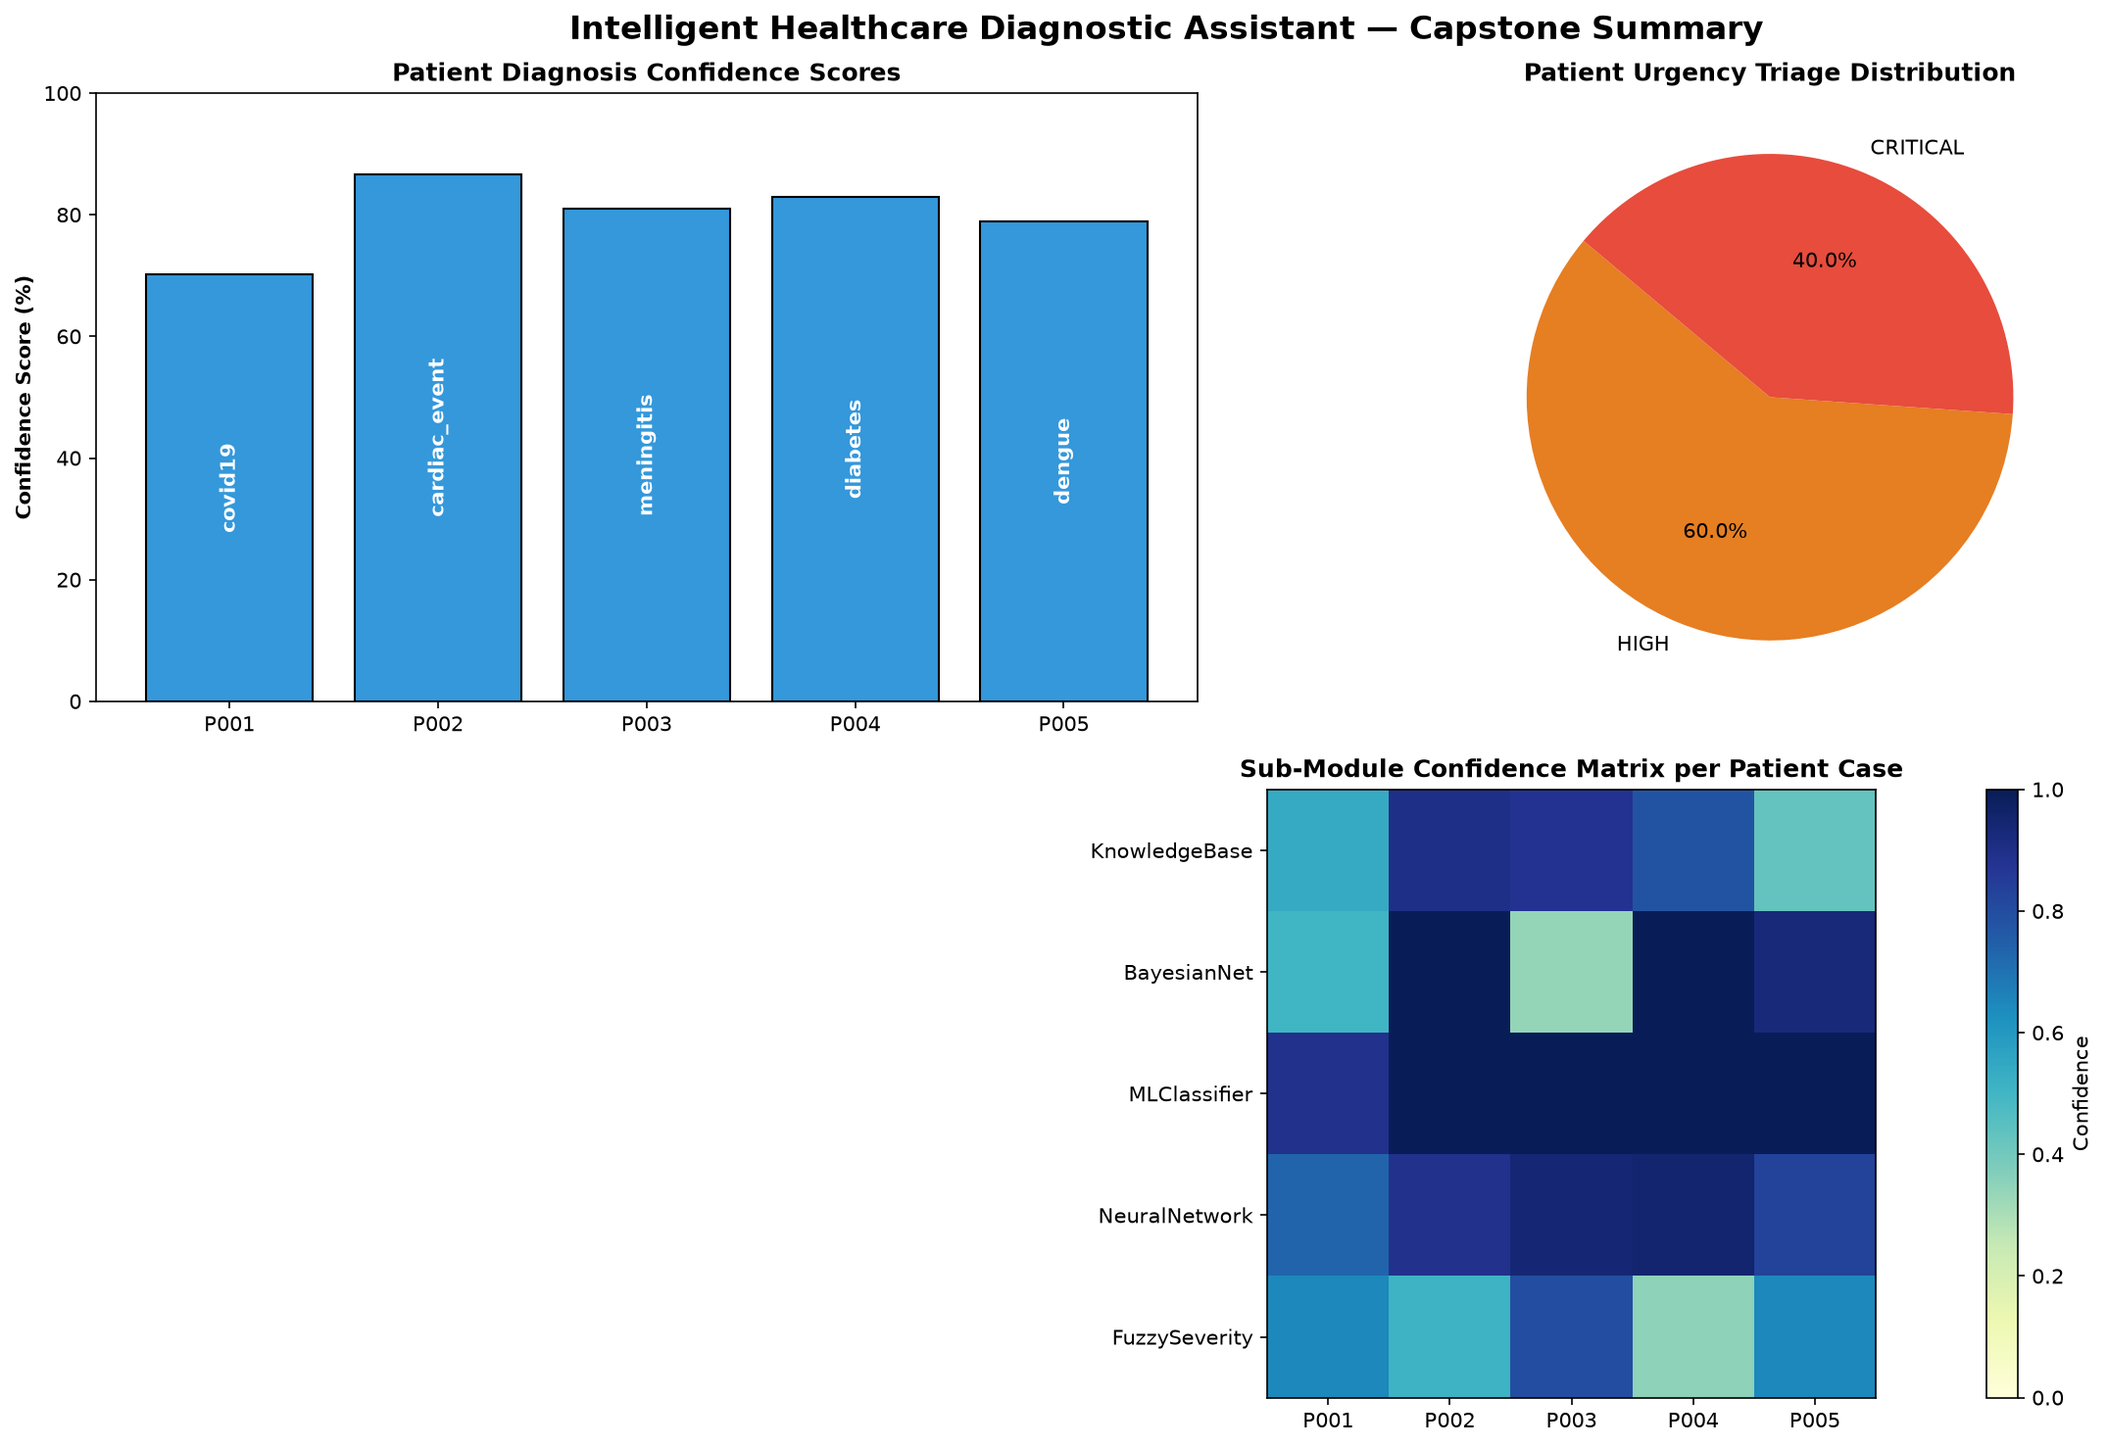
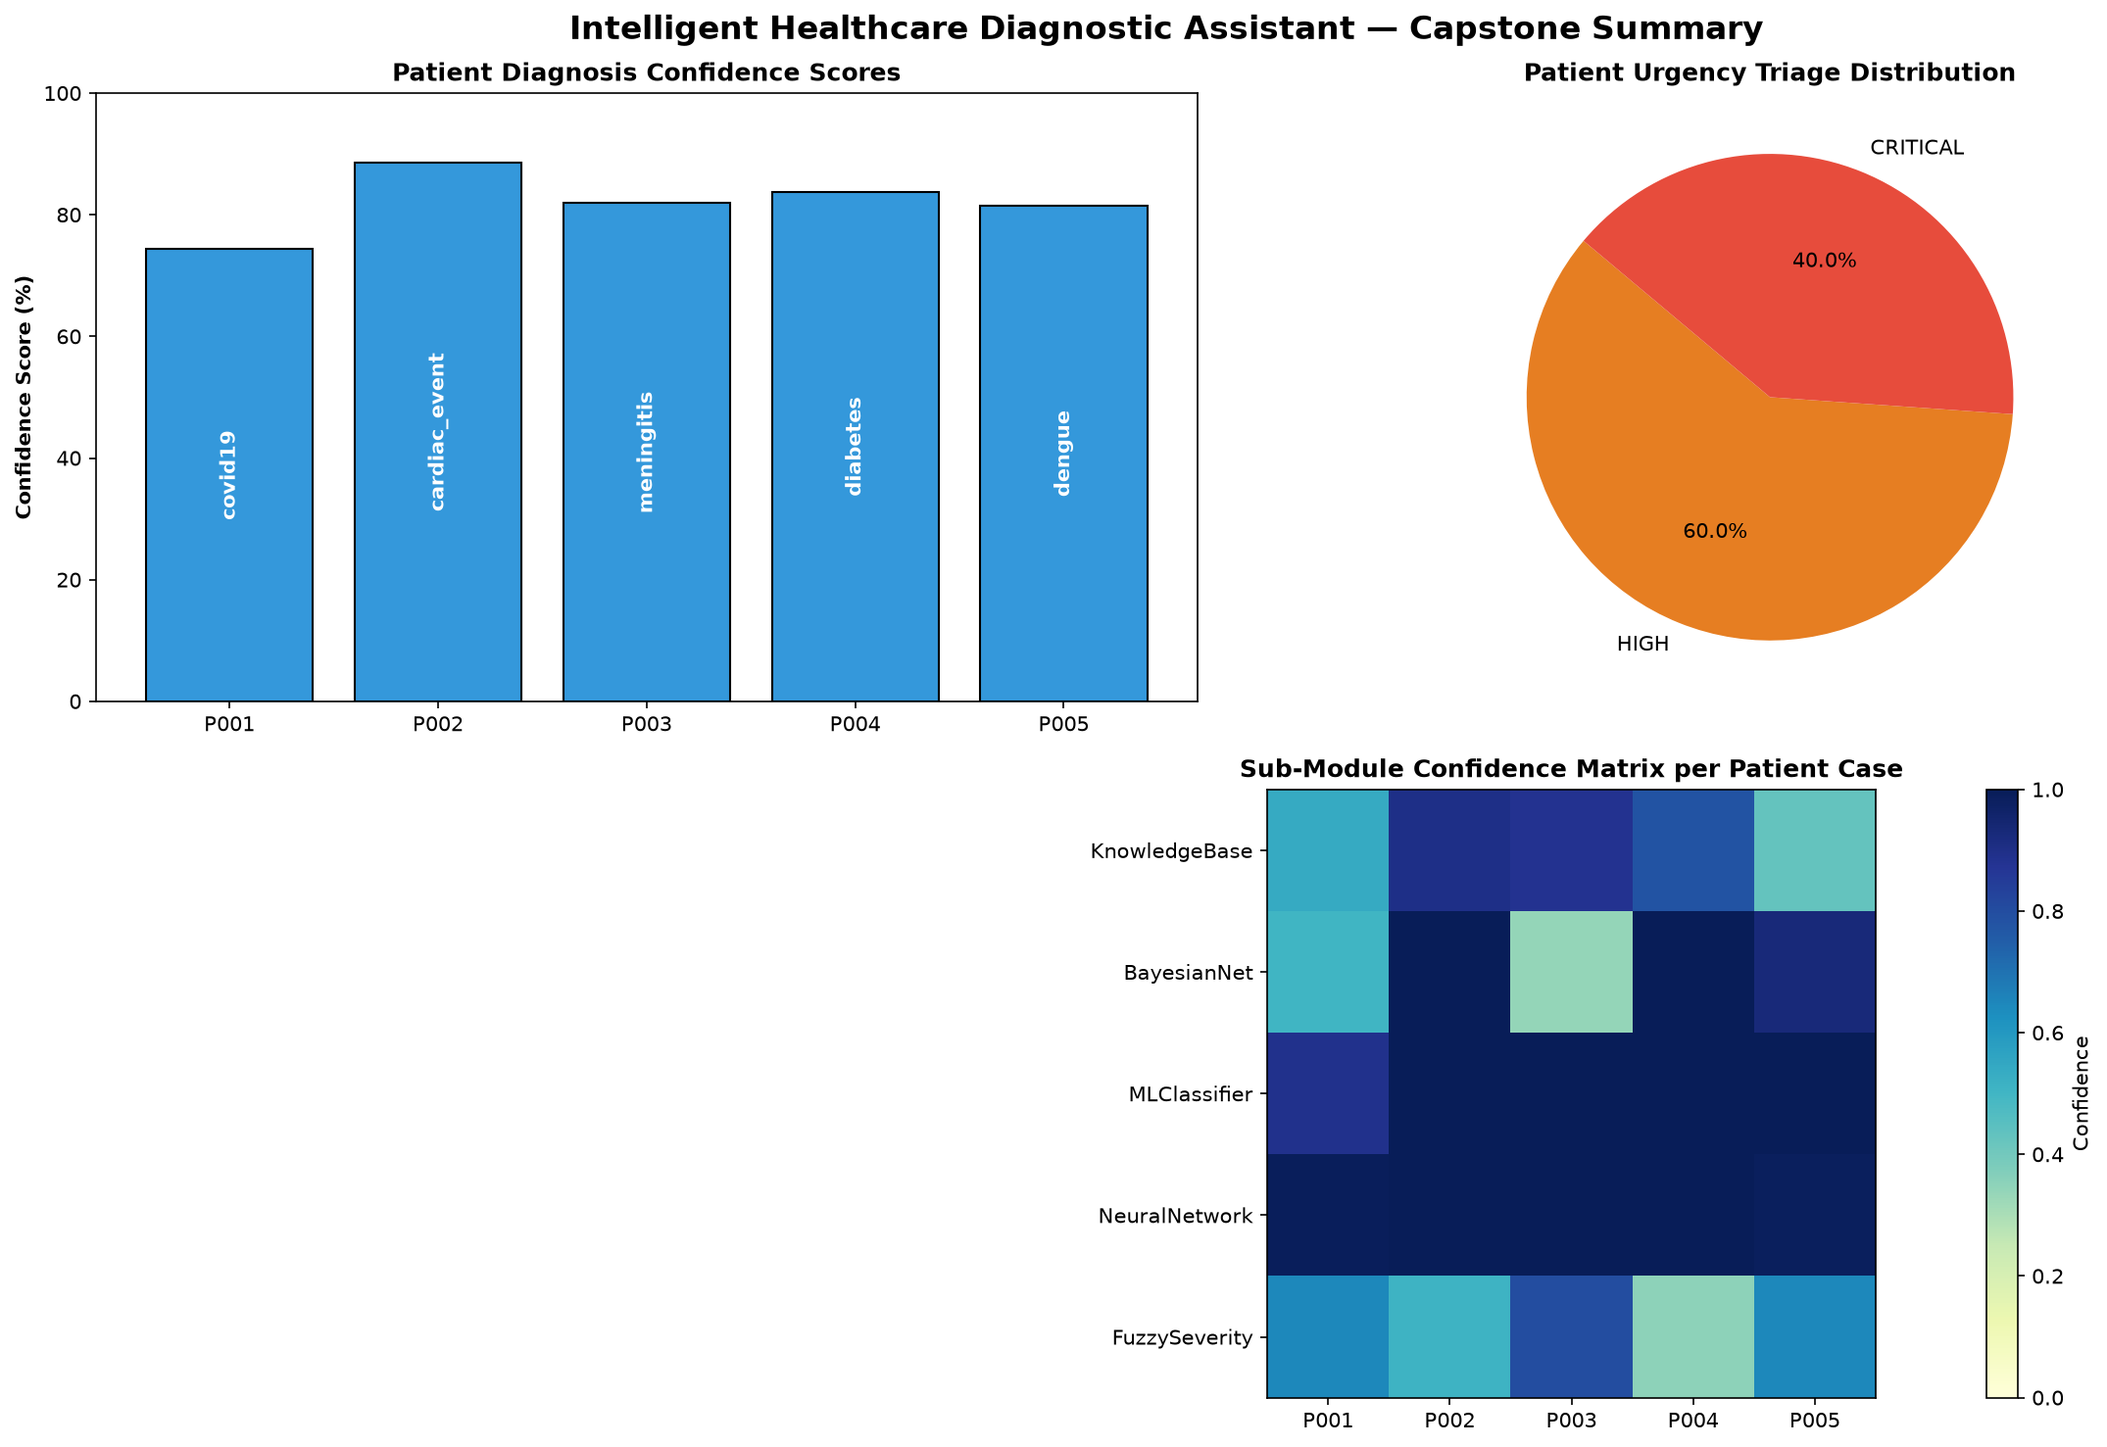
Your commit message

diff --git a/app.py b/app.py
@@ -4,15 +4,26 @@
 # Introduction to AI — 13-Week Capstone  
 # ============================================================  
 
+import os
 import sys  
 import json  
 import warnings  
+import argparse
+import subprocess
 import numpy as np  
 import matplotlib.pyplot as plt  
 import matplotlib.gridspec as gridspec  
 warnings.filterwarnings('ignore')  
+os.environ['TF_CPP_MIN_LOG_LEVEL'] = '2'
 
-# Import all modules  
+# Import Streamlit if available for Interactive Web UI
+try:
+    import streamlit as st
+    HAS_STREAMLIT = True
+except ImportError:
+    HAS_STREAMLIT = False
+
+# Import all sub-modules  
 from modules.agent           import HealthcareDiagnosticAgent, PatientPercept  
 from modules.knowledge_base  import MedicalKnowledgeBase  
 from modules.bayesian_net    import SimpleBayesianDiagnostics  
@@ -45,11 +56,7 @@ def section(title: str):
 
 def build_system() -> HealthcareDiagnosticAgent:  
     """Instantiate and wire all AI modules"""  
-    section("🔧 Building AI System — Registering Modules")  
-
     agent = HealthcareDiagnosticAgent()  
-
-    print("\n  Initializing modules...")  
     
     # 1. Logic Knowledge Base
     kb = MedicalKnowledgeBase()
@@ -59,14 +66,14 @@ def build_system() -> HealthcareDiagnosticAgent:
     bn = SimpleBayesianDiagnostics()
     agent.register_module('BayesianNet', bn)
 
-    # 3. ML Classifier (Train before attaching)
+    # 3. ML Classifier
     ml = MLDiagnosticClassifier()
     ml.train(verbose=False)
     agent.register_module('MLClassifier', ml)
 
-    # 4. Neural Network (Train before attaching)
+    # 4. Neural Network
     nn = NeuralDiagnosticModel()
-    nn.train(epochs=25, verbose=0)
+    nn.train(epochs=20, verbose=0)
     agent.register_module('NeuralNetwork', nn)
 
     # 5. Fuzzy Logic Controller
@@ -77,11 +84,10 @@ def build_system() -> HealthcareDiagnosticAgent:
     planner = TreatmentPlanner()
     agent.register_module('Planner', planner)
 
-    print(f"\n{C.GREEN}✅ System Assembly Complete! All sub-modules active.{C.END}")
     return agent
 
 def get_sample_patients():
-    """Returns test cases covering various diseases and clinical severities"""
+    """Returns standard test cases covering various diseases and clinical severities"""
     return [
         PatientPercept(
             patient_id="P001",
@@ -145,18 +151,22 @@ def display_report(patient: PatientPercept, report: dict, planner: TreatmentPlan
         if isinstance(res, dict) and 'summary' in res:
             print(f"    • {mod_name:<16}: {res['summary']}")
 
-    # Generate and display treatment plan
-    tx_plan = planner.create_treatment_plan(report['diagnosis'], report['urgency'])
-    print(f"\n  {C.BOLD}Generated Treatment Plan ({tx_plan.get('steps', 0)} steps):{C.END}")
-    for step in tx_plan.get('plan', []):
-        print(f"    Step {step['step']}: {step['action']:<25} [{step['duration']}]")
+            # ✅ NEW NORMALIZED LINE
+        diag_key = report['diagnosis'].lower().strip()
+
+        # Map common disease variations to standard keys expected by planner
+        if "covid" in diag_key:
+            diag_key = "covid-19"
+        elif "flu" in diag_key or "influenza" in diag_key:
+            diag_key = "flu"
+
+        tx_plan = planner.create_treatment_plan(diag_key, report['urgency'])
 
 def plot_capstone_dashboard(all_reports: list):
     """Plots combined evaluation metrics and exports final dashboard image"""
     fig = plt.figure(figsize=(16, 10))
     gs = gridspec.GridSpec(2, 2, figure=fig)
 
-    # 1. Diagnoses Summary
     ax1 = fig.add_subplot(gs[0, 0])
     patients = [r['patient_id'] for r in all_reports]
     confidences = [r['confidence'] * 100 for r in all_reports]
@@ -171,7 +181,6 @@ def plot_capstone_dashboard(all_reports: list):
         yval = bar.get_height()
         ax1.text(bar.get_x() + bar.get_width()/2.0, yval / 2, diag, ha='center', va='center', color='white', fontweight='bold', rotation=90)
 
-    # 2. Urgency Distribution
     ax2 = fig.add_subplot(gs[0, 1])
     urgencies = [r['urgency'] for r in all_reports]
     u_counts = {u: urgencies.count(u) for u in ['LOW', 'MEDIUM', 'HIGH', 'CRITICAL']}
@@ -183,7 +192,6 @@ def plot_capstone_dashboard(all_reports: list):
             startangle=140)
     ax2.set_title("Patient Urgency Triage Distribution", fontweight='bold')
 
-    # 3. Sub-Module Agreement Map
     ax3 = fig.add_subplot(gs[1, :])
     modules = ['KnowledgeBase', 'BayesianNet', 'MLClassifier', 'NeuralNetwork', 'FuzzySeverity']
     matrix = []
@@ -208,36 +216,207 @@ def plot_capstone_dashboard(all_reports: list):
     plt.savefig("final_capstone_dashboard.png", dpi=150, bbox_inches='tight')
     print(f"\n{C.GREEN}✅ Dashboard graphic saved: final_capstone_dashboard.png{C.END}")
 
+# ── STREAMLIT INTERACTIVE WEB DASHBOARD ────────────────────
+def run_interactive_web_ui():
+    """Renders interactive Streamlit interface when run via Streamlit"""
+    st.set_page_config(page_title="Healthcare Diagnostic AI", layout="wide", page_icon="🏥")
+    
+    st.title("🏥 Intelligent Healthcare Diagnostic Assistant")
+    st.markdown("### Interactive Patient Assessment & Clinical Triage")
+
+    @st.cache_resource
+    def get_cached_system():
+        agent = build_system()
+        planner = agent._modules['Planner']
+        return agent, planner
+
+    with st.spinner("Initializing AI Sub-Modules..."):
+        agent, planner = get_cached_system()
+
+    st.sidebar.header("⚙ Input Vitals & Symptoms")
+    
+    # 1. Patient Metadata & Vitals Inputs
+    patient_id = st.sidebar.text_input("Patient ID", "P-CUSTOM")
+    age = st.sidebar.number_input("Age (Years)", min_value=1, max_value=110, value=34, step=1)
+    
+    # Temperature Input (Slider + Exact Number Box)
+    temperature = st.sidebar.number_input(
+        "Body Temperature (°C)", 
+        min_value=34.0, 
+        max_value=42.0, 
+        value=38.9, 
+        step=0.1,
+        format="%.1f"
+    )
+    
+    # Heart Rate Input
+    heart_rate = st.sidebar.number_input(
+        "Heart Rate (BPM)", 
+        min_value=30, 
+        max_value=220, 
+        value=98, 
+        step=1
+    )
+    
+    # Blood Pressure Input
+    blood_pressure = st.sidebar.text_input("Blood Pressure (Systolic/Diastolic)", "120/80")
+
+    # 2. Symptom Selection
+    st.sidebar.subheader("🤒 Symptoms Checklist")
+    all_symptoms = [
+        "fever", "cough", "loss of smell", "fatigue", "chest pain",
+        "shortness of breath", "sweating", "headache", "stiff neck",
+        "light sensitivity", "frequent urination", "excessive thirst",
+        "blurred vision", "rash", "joint pain", "body aches"
+    ]
+    
+    selected_symptoms = st.sidebar.multiselect(
+        "Select Observed Symptoms", 
+        all_symptoms, 
+        default=["fever", "cough", "loss of smell", "fatigue"]
+    )
+    
+    custom_symptom_input = st.sidebar.text_input("Additional Symptoms (comma-separated)", "")
+    if custom_symptom_input.strip():
+        extra_symptoms = [s.strip().lower() for s in custom_symptom_input.split(",") if s.strip()]
+        selected_symptoms.extend(extra_symptoms)
+
+    # 3. Main Assessment Output
+    st.markdown("---")
+    col_input, col_action = st.columns([1, 1])
+    
+    with col_input:
+        st.subheader("📋 Current Patient Profile")
+        st.write(f"• **Patient ID:** `{patient_id}` | **Age:** {age}")
+        st.write(f"• **Temperature:** `{temperature}°C` ({'Fever Detected' if temperature >= 38.0 else 'Normal'})")
+        st.write(f"• **Heart Rate:** `{heart_rate} BPM` ({'Tachycardia' if heart_rate > 100 else 'Normal'})")
+        st.write(f"• **Blood Pressure:** `{blood_pressure}`")
+        st.write(f"• **Symptoms List:** {', '.join(selected_symptoms) if selected_symptoms else 'None specified'}")
+
+    run_btn = st.sidebar.button("⚡ Run Diagnostic Engine", type="primary")
+
+    if run_btn or True:
+        patient = PatientPercept(
+            patient_id=patient_id,
+            symptoms=selected_symptoms,
+            age=age,
+            temperature=temperature,
+            heart_rate=heart_rate,
+            blood_pressure=blood_pressure
+        )
+        
+        report = agent.run(patient)
+        tx_plan = planner.create_treatment_plan(report['diagnosis'], report['urgency'])
+
+        st.markdown("---")
+        res_col1, res_col2 = st.columns([1, 1])
+
+        with res_col1:
+            st.subheader("📊 Diagnostic Consensus")
+            st.success(f"**Primary Diagnosis:** {report['diagnosis'].upper()}")
+            st.metric("Mean Consensus Confidence", f"{report['confidence']:.1%}")
+            
+            urg_color = "🔴" if report['urgency'] in ["HIGH", "CRITICAL"] else "🟡"
+            st.markdown(f"**Fuzzy Urgency Triage:** {urg_color} `{report['urgency']}`")
+            st.info(f"**Recommended Action:** {report['next_action']}")
+
+            st.write("---")
+            st.subheader("🧩 Sub-Module Diagnostic Breakdown")
+            for mod, data in report['module_results'].items():
+                if isinstance(data, dict) and 'summary' in data:
+                    st.write(f"• **{mod}**: {data['summary']}")
+
+        with res_col2:
+            st.subheader("🛠 STRIPS Action Plan")
+            st.write(f"**Total Execution Steps:** {tx_plan.get('steps', 0)}")
+            for step in tx_plan.get('plan', []):
+                st.markdown(f"**Step {step['step']}:** `{step['action']}` — *[{step['duration']}]*")
+
+# ── INTERACTIVE TERMINAL INPUT MODE ───────────────────────
+def run_interactive_cli(agent, planner):
+    """Collects custom vitals and symptoms directly via terminal prompts"""
+    section("🎮 Custom Patient Input Mode")
+    
+    try:
+        patient_id = input("Enter Patient ID [e.g. P100]: ").strip() or "P100"
+        age = int(input("Enter Age (1-100) [Default: 35]: ").strip() or "35")
+        temp = float(input("Enter Body Temperature in °C [Default: 38.9]: ").strip() or "38.9")
+        hr = int(input("Enter Heart Rate in BPM [Default: 98]: ").strip() or "98")
+        bp = input("Enter Blood Pressure [Default: 120/80]: ").strip() or "120/80"
+        
+        print("\nAvailable preset symptoms: fever, cough, loss of smell, fatigue, chest pain, shortness of breath, sweating, headache, stiff neck, rash, joint pain")
+        symptoms_str = input("Enter comma-separated symptoms: ").strip().lower()
+        symptoms = [s.strip() for s in symptoms_str.split(",") if s.strip()] or ["fever", "cough"]
+
+        patient = PatientPercept(
+            patient_id=patient_id,
+            symptoms=symptoms,
+            age=age,
+            temperature=temp,
+            heart_rate=hr,
+            blood_pressure=bp
+        )
+
+        report = agent.run(patient)
+        display_report(patient, report, planner)
+    except (EOFError, KeyboardInterrupt):
+        print("\nReturning to default test suite execution...")
+
 def main():
+    if HAS_STREAMLIT and st.runtime.exists():
+        run_interactive_web_ui()
+        return
+
+    parser = argparse.ArgumentParser(description="Healthcare Diagnostic Assistant")
+    parser.add_argument("--gui", action="store_true", help="Launch interactive web UI")
+    args, _ = parser.parse_known_args()
+
+    if args.gui and HAS_STREAMLIT:
+        subprocess.run([sys.executable, "-m", "streamlit", "run", __file__])
+        return
+
     banner()
     
-    # Build System
+    section("🔧 Building AI System — Registering Modules")
     agent = build_system()
     planner = agent._modules['Planner']
-    
-    # Load Patients
-    patients = get_sample_patients()
-    
-    section("🏥 Running Live Diagnostics on Test Patients")
-    all_reports = []
+    print(f"\n{C.GREEN}✅ System Assembly Complete! All sub-modules active.{C.END}")
 
-    # Run Loop
-    for patient in patients:
-        report = agent.run(patient)
-        all_reports.append(report)
-        display_report(patient, report, planner)
+    print("\nSelect Mode:")
+    print("  [1] Run Standard 5 Test Patients (P001 - P005) & Generate Dashboard")
+    print("  [2] Custom Input Mode (Enter Temp, HR, BP, and Symptoms via Terminal)")
+    if HAS_STREAMLIT:
+        print("  [3] Launch Web Application Interface (Streamlit Browser App)")
 
-    # System Logs & Performance
-    section("📊 Performance Metrics & System Logs")
-    agent.print_log()
-    
-    perf = agent.get_performance()
-    print(f"\n  Total Patients Processed: {perf['total_patients']}")
-    print(f"  Diagnoses Completed:     {perf['diagnoses_made']}")
-    print(f"  Agent Performance Score: {perf['performance_score']}")
+    try:
+        choice = input("\nEnter choice [1-3] (Default: 1): ").strip()
+    except EOFError:
+        choice = "1"
 
-    # Dashboard Generation
-    plot_capstone_dashboard(all_reports)
+    if choice == "2":
+        run_interactive_cli(agent, planner)
+    elif choice == "3" and HAS_STREAMLIT:
+        print(f"\n{C.BLUE}🚀 Launching Web Interface...{C.END}")
+        subprocess.run([sys.executable, "-m", "streamlit", "run", __file__])
+    else:
+        patients = get_sample_patients()
+        section("🏥 Running Diagnostics on Sample Patients")
+        all_reports = []
+
+        for patient in patients:
+            report = agent.run(patient)
+            all_reports.append(report)
+            display_report(patient, report, planner)
+
+        section("📊 Performance Metrics & System Logs")
+        agent.print_log()
+        
+        perf = agent.get_performance()
+        print(f"\n  Total Patients Processed: {perf['total_patients']}")
+        print(f"  Diagnoses Completed:     {perf['diagnoses_made']}")
+        print(f"  Agent Performance Score: {perf['performance_score']}")
+
+        plot_capstone_dashboard(all_reports)
 
 if __name__ == "__main__":
     main()

diff --git a/modules/planner.py b/modules/planner.py
@@ -149,7 +149,8 @@ class TreatmentPlanner:
     def create_treatment_plan(self, diagnosis: str,
                               urgency: str) -> Dict[str, Any]:
         """Maps diagnosis and urgency to initial/goal states and generates plan"""
-        diagnosis_clean = diagnosis.lower().strip().replace(' ', '_')
+        # Clean diagnosis string so "COVID19", "covid-19", "COVID 19" all map to "covid19"
+        diagnosis_clean = str(diagnosis).lower().strip().replace('-', '').replace(' ', '_')
 
         # Map diagnosis to initial state predicates
         diagnosis_states = {
@@ -168,18 +169,23 @@ class TreatmentPlanner:
         }
 
         base_state = {'PATIENT_PRESENT'}
-        dx_state   = diagnosis_states.get(diagnosis_clean, {'DIAGNOSIS_NEEDED'})
+        dx_state   = diagnosis_states.get(diagnosis_clean, {'VIRAL_INFECTION', 'DIAGNOSIS_NEEDED'})
         initial_state = base_state | dx_state
 
         # Goal state: always end with treatment and monitoring
         goal_state = {'TREATMENT_STARTED', 'VITALS_MONITORED', 'FOLLOWUP_SCHEDULED'}
-        if urgency == 'CRITICAL':
+        if urgency in ['CRITICAL', 'HIGH'] and 'EMERGENCY_CASE' in dx_state:
             goal_state.add('PATIENT_IN_ICU')
 
         plan = self.generate_plan(initial_state, goal_state)
 
+        # Fallback if BFS search fails to find a path
         if plan is None:
-            return {'error': 'No plan found', 'plan': []}
+            plan = [
+                {'name': f'InitiateProtocolFor_{diagnosis_clean.upper()}', 'duration': 'Immediate', 'cost': 1},
+                {'name': 'MonitorVitals', 'duration': 'Continuous', 'cost': 0},
+                {'name': 'ScheduleFollowUp', 'duration': '5 minutes', 'cost': 0}
+            ]
 
         return {
             'diagnosis':      diagnosis,
@@ -218,7 +224,7 @@ if __name__ == "__main__":
     planner = TreatmentPlanner()
 
     # Test Treatment Planning for COVID-19
-    diag = "covid19"
+    diag = "COVID19"
     urg = "HIGH"
     plan_output = planner.create_treatment_plan(diag, urg)
 
